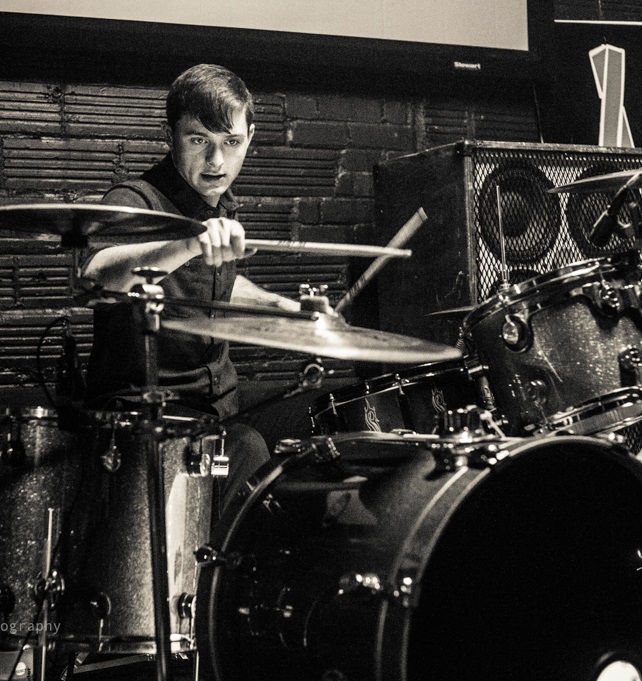
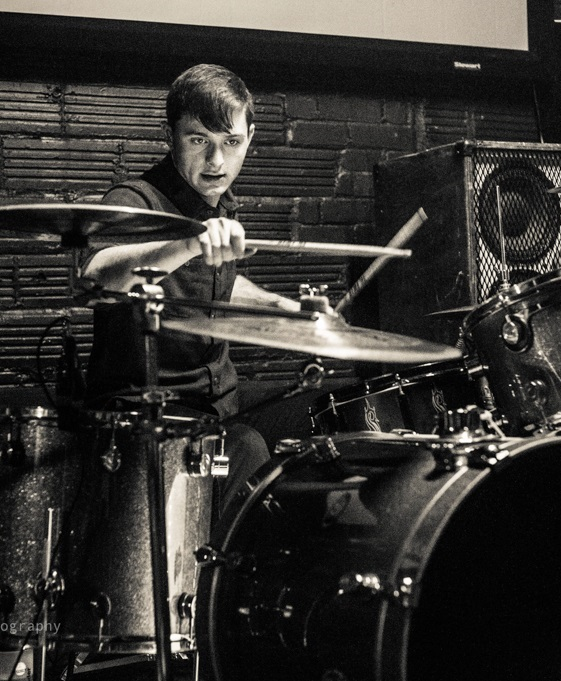
Updates image aspect ratios

diff --git a/resources/views/welcome.blade.php b/resources/views/welcome.blade.php
@@ -8,25 +8,28 @@
 
                     <div class="row" style="background-color:#000;color:#fff;padding:2%;opacity:.8;border-radius:15px;font-size:3em">
 
-                        <div class="row" style="min-height:600px;background-image: url('http://manage.band/images/n64.jpg');background-repeat:no-repeat;background-size:100%;">
+                        <div class="row" style="background-image: url('http://manage.band/images/n64.jpg');background-repeat:no-repeat;background-size:100%;">
                             <div class="col-sm-12" style="background-color:#000;color:#fff;padding:2%;opacity:.8;border-radius:15px;text-align:center">
                                 Manage your business from the studio, the road, or anywhere else that has an internet connection. <br> <br>
                             </div>
                         <!-- spacer -->
+                            <div class="row" style="height:100%"></div>
                         </div>
-                        <div class="row" style="opacity:.8;background-image: url('http://manage.band/images/brennandrums2.jpg');background-repeat:no-repeat;background-size:100% 100%;">
+                        <div class="row" style="background-image: url('http://manage.band/images/brennandrums2.jpg');background-repeat:no-repeat;background-size:100%">
                             <div class="col-sm-12" style="background-color:#000;color:#fff;opacity:.8;border-radius:15px;text-align:center">
                                     From amps to Zildjian, manage your gear and make sure you have everything you need to succeed.
                             </div>
-                            <div class="row" style="min-height:600px"></div>
+                            <div class="row" style="min-height:500px"></div>
                         </div>
 
-                        <div class="col-sm-12" style="background-color:#000;color:#fff;opacity:.8;padding-top:9%;border-radius:15px;text-align:center">
-                                Connect with social media and the people you need to manage a show or tour. <br> <br>
-                        <div class="row" style="display:flex;min-height:600px;background-image: url('http://manage.band/images/connect.jpg');background-repeat:no-repeat;background-size:100%;"></div>
+                        <div class="row" style="background-image: url('http://manage.band/images/connect.jpg');background-repeat:no-repeat;background-size:100%">
+                            <div class="col-sm-12" style="background-color:#000;color:#fff;opacity:.8;border-radius:15px;text-align:center">
+                                    Connect with social media and the people you need to manage a show or tour.
+                            </div>
+                            <div class="row" style="min-height:500px"></div>
                         </div>
                         
-                        <div class="col-sm-12" style="background-color:#000;color:#fff;padding-top:9%;border-radius:15px;text-align:center">
+                        <div class="col-sm-12" style="background-color:#000;opacity;.8;color:#fff;padding-top:9%;border-radius:15px;text-align:center">
                             Sell tickets & merch online, manage inventory and shipping with only a few clicks.<br><br>
                             <button type="button" class="btn btn-default btn-lg" style="width:50%;height:100px" data-toggle="modal" data-target="#myModal">
                                 Sign Up for Free! <i class="fa fa-arrow-right"></i>
